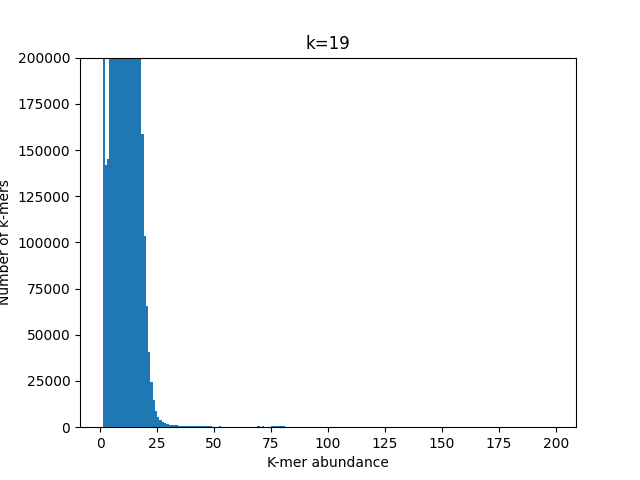
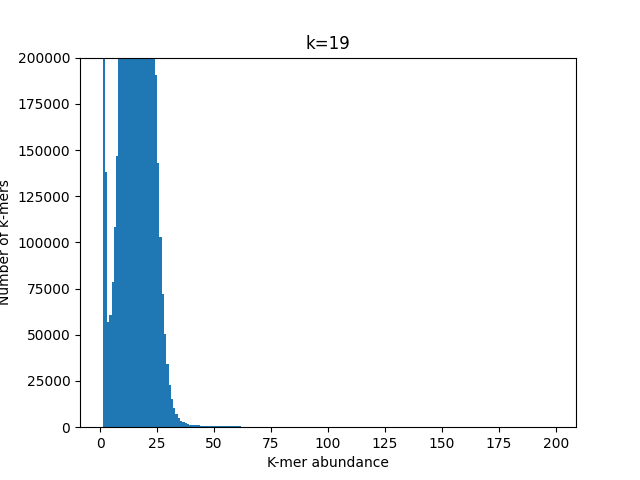
feat: added unique kmer counting

Changed region(s): [[0.2188, 0.125, 0.3125, 0.9062], [0.1562, 0.125, 0.1875, 0.6562]]

diff --git a/optikmer.py b/optikmer.py
@@ -1,9 +1,11 @@
 from collections import Counter
 from Bio import SeqIO
+from scipy.signal import argrelextrema
 import random
 import matplotlib.pyplot as plt
 import math
 import argparse
+import numpy as np
 
 # Initialize possible k-mer lengths & empty dictionary for k-mer counts
 kmer_lengths = [11, 21, 31, 41, 51, 61, 71, 81, 91]
@@ -13,21 +15,41 @@ kmer_counts = Counter()
 
 # plot the distribution of kmer counts for specific kmer length
 def plotKmerCounts(k):
-  plt.hist(kmer_counts.values(), bins=range(1, 200))
+  counts, bins, _ = plt.hist(kmer_counts.values(), bins=range(1, 200))
   plt.xlabel('K-mer abundance')
   plt.ylabel('Number of k-mers')
   plt.ylim(0, 200000)
   plt.title(f'k={k}')
   plt.savefig(f'histograms/k{k}.png')
+
+  # Find indices of bins within the specified range
+  bin_indices = (bins[:-1] >= 1) & (bins[:-1] <= 25)
+  
+  # Find indices of local minima within the specified range
+  local_minima = argrelextrema(counts[bin_indices], np.less)
+  
+  # Print local minima
+  start_point = 1
+  for local_min in local_minima[0]:
+    if local_min > start_point:
+      start_point = local_min
+  print(f'k={k}, start_point={start_point}')
+
+  unique_kmers = 0
+  for i in range(start_point, 198):
+    unique_kmers += counts[i]
+    
   plt.close()
+  print (f'k={k}, unique_kmers={unique_kmers}')\
+
 
 def getSampleReads(fastq_file):
-  reads = []
+  reads = [] # while instead of loadin all into memory to save time 
   record_count = 0
   for record in SeqIO.parse(fastq_file, "fastq"):
     reads.append(str(record.seq))
     record_count += 1
-  return random.sample(reads, math.ceil(record_count * 0.75)) # sample 10% of reads
+  return random.sample(reads, math.ceil(record_count * 0.15)) # sample 10% of reads take in as command line arg
   # return random.sample(reads, 10000) # sample 10000
 
 def recordKmers(reads, kmer_len): # also used by kmergenie
